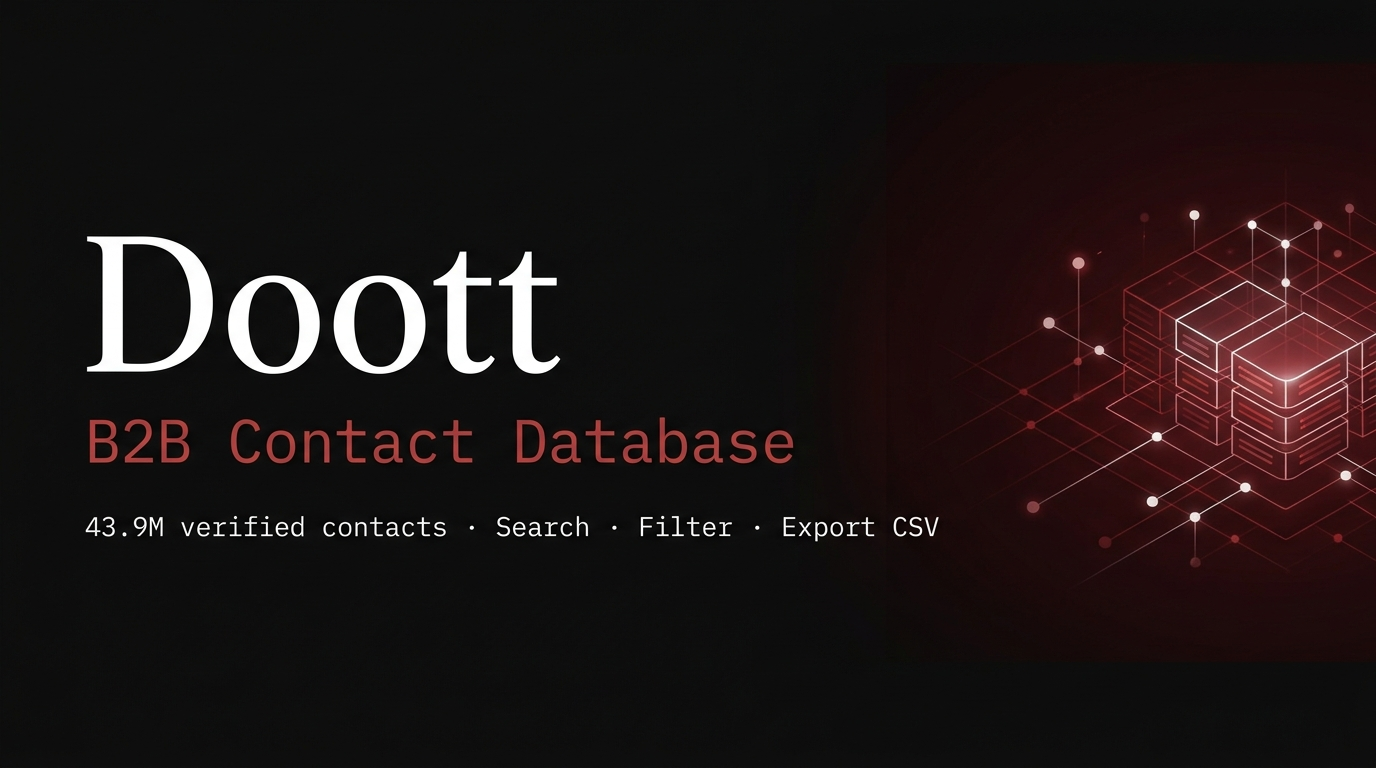
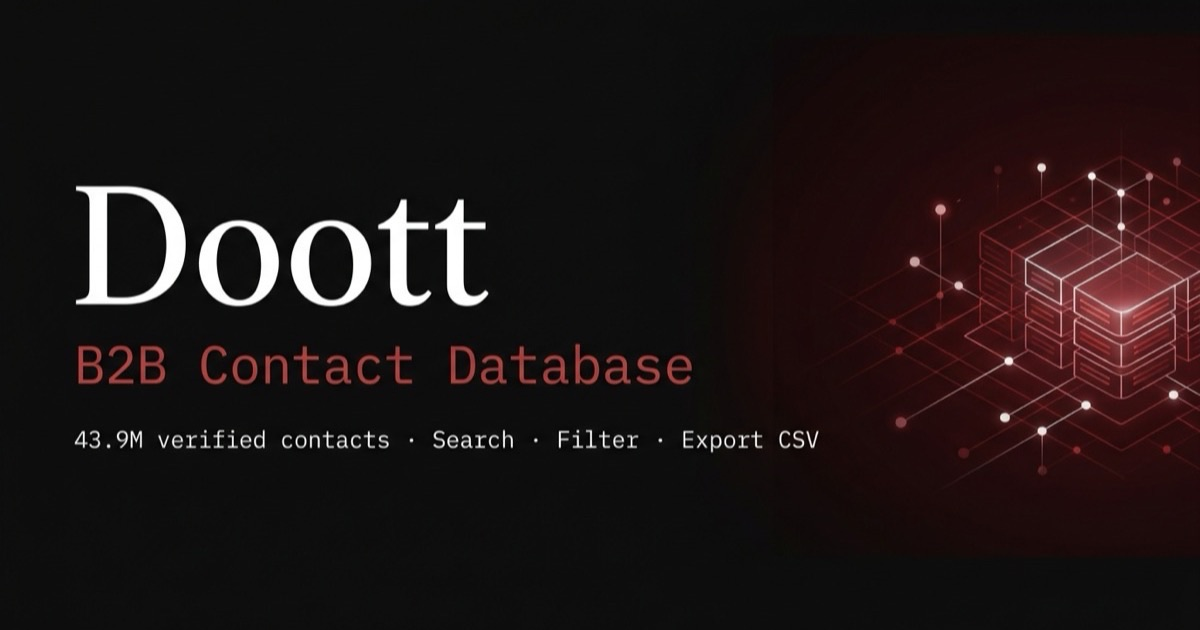
feat(seo): pre-render public pages, per-page meta, lighter landing page
Crawlers used to get an empty <div id="root"> on every URL, with the home page's title
and canonical. Now:

- Pre-rendering: `npm run build` also renders "/" and "/pricing" to static HTML
  (src/entry-server.jsx + scripts/prerender.mjs), so non-JS crawlers (Bing, social
  and AI bots) see the full text. Vercel serves /pricing/index.html for /pricing.
  Every other route gets app-shell.html, which is marked noindex, so login, app and
  unknown URLs stay out of search results.
- Per-page metadata: src/seo.js holds the title, description, canonical and robots
  for each route; RouteMeta keeps them right during client navigation.
- Removed the hreflang tags (every page pointed to "/") and the WebSite SearchAction
  (its target was a login-only, robots-disallowed URL).
- Sitemap and robots.txt (static and server copies): add /pricing, drop /login.
  The API docs page gets a canonical.
- Speed: app pages are lazy-loaded (main bundle 500 KB -> 136 KB), and fonts load via
  <link> instead of a CSS @import.
- Share image is now really 1200x630 (as the og tags claim) and 74 KB instead of 447 KB.

diff --git a/frontend/src/App.jsx b/frontend/src/App.jsx
@@ -1,3 +1,4 @@
+import { lazy, Suspense } from "react";
 import { Routes, Route, Navigate } from "react-router-dom";
 import { AuthProvider } from "./context/AuthContext";
 import { FeatureFlagProvider } from "./context/FeatureFlagContext";
@@ -5,34 +6,33 @@ import ProtectedRoute from "./components/ProtectedRoute";
 import Layout from "./components/Layout";
 import FeatureGate from "./components/FeatureGate";
 
-// Auth pages
-import LoginPage from "./pages/LoginPage";
-import RegisterGate from "./components/RegisterGate"; // password-protected internal signup
-import AuthCallbackPage from "./pages/AuthCallbackPage";
-import VerifyEmailPage from "./pages/VerifyEmailPage";
-import ForgotPasswordPage from "./pages/ForgotPasswordPage";
-import ResetPasswordPage from "./pages/ResetPasswordPage";
-
-// App pages
-import LandingPage from "./pages/LandingPage";
-import PricingPage from "./pages/PricingPage";
-import JoinPage from "./pages/JoinPage";
-import SettingsPage from "./pages/SettingsPage";
-import DocumentationPage from "./pages/DocumentationPage";
-import PeoplePage               from "./pages/PeoplePage";
-import PeopleEmailPage          from "./pages/PeopleEmailPage";
-import PeopleNumberPage         from "./pages/PeopleNumberPage";
-import EmailPage                from "./pages/EmailPage";
-import NumberPage               from "./pages/NumberPage";
-import CompaniesPage            from "./pages/CompaniesPage";
-import CategoryExplorerPage     from "./pages/CategoryExplorerPage";
-import CityExplorerPage         from "./pages/CityExplorerPage";
-import AdminAnalyticsPage from "./pages/AdminAnalyticsPage";
 import PageTracker        from "./components/PageTracker";
-
 import { ThemeProvider } from "./context/ThemeContext";
 
-import ApiDocsPage from "./pages/ApiDocsPage";
+// Public marketing pages — loaded eagerly because they are pre-rendered (scripts/prerender.mjs)
+import LandingPage from "./pages/LandingPage";
+import PricingPage from "./pages/PricingPage";
+
+// Everything except the public marketing pages loads on demand, so the landing page stays light.
+const LoginPage = lazy(() => import("./pages/LoginPage"));
+const RegisterGate = lazy(() => import("./components/RegisterGate")); // password-protected internal signup
+const AuthCallbackPage = lazy(() => import("./pages/AuthCallbackPage"));
+const VerifyEmailPage = lazy(() => import("./pages/VerifyEmailPage"));
+const ForgotPasswordPage = lazy(() => import("./pages/ForgotPasswordPage"));
+const ResetPasswordPage = lazy(() => import("./pages/ResetPasswordPage"));
+const JoinPage = lazy(() => import("./pages/JoinPage"));
+const SettingsPage = lazy(() => import("./pages/SettingsPage"));
+const DocumentationPage = lazy(() => import("./pages/DocumentationPage"));
+const PeoplePage = lazy(() => import("./pages/PeoplePage"));
+const PeopleEmailPage = lazy(() => import("./pages/PeopleEmailPage"));
+const PeopleNumberPage = lazy(() => import("./pages/PeopleNumberPage"));
+const EmailPage = lazy(() => import("./pages/EmailPage"));
+const NumberPage = lazy(() => import("./pages/NumberPage"));
+const CompaniesPage = lazy(() => import("./pages/CompaniesPage"));
+const CategoryExplorerPage = lazy(() => import("./pages/CategoryExplorerPage"));
+const CityExplorerPage = lazy(() => import("./pages/CityExplorerPage"));
+const AdminAnalyticsPage = lazy(() => import("./pages/AdminAnalyticsPage"));
+const ApiDocsPage = lazy(() => import("./pages/ApiDocsPage"));
 
 export default function App() {
   return (
@@ -40,6 +40,7 @@ export default function App() {
       <AuthProvider>
         <FeatureFlagProvider>
           <PageTracker />
+          <Suspense fallback={null}>
           <Routes>
             {/* ── Public routes ─────────────────────────────────── */}
             <Route path="/"                element={<LandingPage />} />
@@ -84,6 +85,7 @@ export default function App() {
             {/* ── 404 catch-all → redirect to login ─────────────── */}
             <Route path="*" element={<Navigate to="/login" replace />} />
           </Routes>
+          </Suspense>
         </FeatureFlagProvider>
       </AuthProvider>
     </ThemeProvider>

diff --git a/frontend/index.html b/frontend/index.html
@@ -19,13 +19,11 @@
     <meta name="robots" content="index, follow, max-snippet:-1, max-image-preview:large, max-video-preview:-1" />
 
     <!-- ═══════════════════════════════════════════════════════
-         CANONICAL, LANGUAGE & HREFLANG
-         Primary market: India (en_IN) + global English fallback
+         CANONICAL
+         Rewritten per page by scripts/prerender.mjs (build) and
+         components/RouteMeta.jsx (client navigation).
     ═══════════════════════════════════════════════════════ -->
     <link rel="canonical" href="https://doott.jaqyi.com/" />
-    <link rel="alternate" hreflang="en-in" href="https://doott.jaqyi.com/" />
-    <link rel="alternate" hreflang="en"    href="https://doott.jaqyi.com/" />
-    <link rel="alternate" hreflang="x-default" href="https://doott.jaqyi.com/" />
 
     <!-- ═══════════════════════════════════════════════════════
          OPEN GRAPH — Social sharing (Facebook, LinkedIn, WhatsApp)
@@ -69,12 +67,14 @@
     ═══════════════════════════════════════════════════════ -->
     <link rel="preconnect" href="https://fonts.googleapis.com" />
     <link rel="preconnect" href="https://fonts.gstatic.com" crossorigin />
+    <link rel="stylesheet" href="https://fonts.googleapis.com/css2?family=Inter:ital,opsz,wght@0,14..32,100..900;1,14..32,100..900&family=JetBrains+Mono:wght@400;500&display=swap" />
 
     <!-- ═══════════════════════════════════════════════════════
          STRUCTURED DATA — JSON-LD
          1. SoftwareApplication  (rich results for the product)
          2. Organization         (brand entity & sitelinks)
-         3. FAQPage              (FAQ rich snippets + AI citations)
+         3. FAQPage              (FAQ answers for search + AI citations)
+         4. WebSite              (site name)
     ═══════════════════════════════════════════════════════ -->
 
     <!-- 1. SoftwareApplication -->
@@ -187,22 +187,14 @@
     }
     </script>
 
-    <!-- 4. WebSite with SearchAction (Sitelinks Search Box signal) -->
+    <!-- 4. WebSite (site name in search results) -->
     <script type="application/ld+json">
     {
       "@context": "https://schema.org",
       "@type": "WebSite",
       "name": "Doott",
       "url": "https://doott.jaqyi.com/",
-      "description": "B2B contact database and lead generation platform with 43.9 million people records.",
-      "potentialAction": {
-        "@type": "SearchAction",
-        "target": {
-          "@type": "EntryPoint",
-          "urlTemplate": "https://doott.jaqyi.com/app/people?q={search_term_string}"
-        },
-        "query-input": "required name=search_term_string"
-      }
+      "description": "B2B contact database and lead generation platform with 43.9 million people records."
     }
     </script>
   </head>

diff --git a/frontend/src/seo.js b/frontend/src/seo.js
@@ -1,0 +1,40 @@
+// Per-route <head> metadata. Used at build time (scripts/prerender.mjs) to write a static
+// HTML file for each indexable page, and at runtime (components/RouteMeta.jsx) so the
+// tags stay correct after client-side navigation.
+
+export const SITE_URL = "https://doott.jaqyi.com";
+
+const DEFAULT = {
+  title: "Doott – B2B Contact Database & Lead Gen Platform",
+  description:
+    "Search 43.9M B2B contacts with verified emails, phones and job titles. Filter and export to CSV in seconds. No per-seat pricing.",
+};
+
+// Public pages that should rank. Each one is pre-rendered to static HTML.
+export const INDEXABLE_ROUTES = {
+  "/": DEFAULT,
+  "/pricing": {
+    title: "Doott Pricing – Lifetime Access to 43.9M B2B Contacts",
+    description:
+      "One price, lifetime access to Doott's B2B database: verified emails, direct phone numbers, company data and unlimited CSV exports. No per-seat fees.",
+  },
+};
+
+// Pages that exist for signed-in users or account flows; keep them out of search results.
+const NOINDEX_TITLES = {
+  "/login": "Log in – Doott",
+  "/register": "Create an account – Doott",
+  "/join": "Join Doott",
+  "/forgot-password": "Reset your password – Doott",
+  "/reset-password": "Reset your password – Doott",
+  "/verify-email": "Verify your email – Doott",
+  "/auth/callback": "Signing in – Doott",
+};
+
+export function metaFor(pathname) {
+  const path = pathname.length > 1 ? pathname.replace(/\/+$/, "") : pathname;
+  const page = INDEXABLE_ROUTES[path];
+  if (page) return { ...page, canonical: SITE_URL + (path === "/" ? "/" : path), index: true };
+  const title = NOINDEX_TITLES[path] || (path.startsWith("/app") ? "Doott" : DEFAULT.title);
+  return { title, description: DEFAULT.description, canonical: SITE_URL + "/", index: false };
+}

diff --git a/frontend/src/components/RouteMeta.jsx b/frontend/src/components/RouteMeta.jsx
@@ -1,0 +1,29 @@
+import { useEffect } from "react";
+import { useLocation } from "react-router-dom";
+import { metaFor } from "../seo";
+
+function setMeta(selector, attr, value) {
+  const el = document.head.querySelector(selector);
+  if (el) el.setAttribute(attr, value);
+}
+
+// Keeps <title>, description, canonical and robots in step with the current route.
+export default function RouteMeta() {
+  const { pathname } = useLocation();
+
+  useEffect(() => {
+    const m = metaFor(pathname);
+    document.title = m.title;
+    setMeta('meta[name="description"]', "content", m.description);
+    setMeta('link[rel="canonical"]', "href", m.canonical);
+    setMeta('meta[property="og:url"]', "content", m.canonical);
+    setMeta('meta[property="og:title"]', "content", m.title);
+    setMeta('meta[property="og:description"]', "content", m.description);
+    setMeta('meta[name="twitter:title"]', "content", m.title);
+    setMeta('meta[name="robots"]', "content", m.index
+      ? "index, follow, max-snippet:-1, max-image-preview:large, max-video-preview:-1"
+      : "noindex, follow");
+  }, [pathname]);
+
+  return null;
+}

diff --git a/frontend/src/entry-server.jsx b/frontend/src/entry-server.jsx
@@ -1,0 +1,24 @@
+// Build-time renderer for the public marketing pages (see scripts/prerender.mjs).
+// Only pages listed in seo.js INDEXABLE_ROUTES are rendered here; the app itself stays client-only.
+import { renderToString } from "react-dom/server";
+import { StaticRouter } from "react-router-dom";
+import { ThemeProvider } from "./context/ThemeContext";
+import LandingPage from "./pages/LandingPage";
+import PricingPage from "./pages/PricingPage";
+
+const PAGES = {
+  "/": LandingPage,
+  "/pricing": PricingPage,
+};
+
+export function render(url) {
+  const Page = PAGES[url];
+  if (!Page) throw new Error(`No pre-render page for ${url}`);
+  return renderToString(
+    <StaticRouter location={url}>
+      <ThemeProvider>
+        <Page />
+      </ThemeProvider>
+    </StaticRouter>
+  );
+}

diff --git a/api-docs.html b/api-docs.html
@@ -5,6 +5,7 @@
   <meta name="viewport" content="width=device-width, initial-scale=1.0" />
   <title>Doott API Docs — Data Fetching Reference</title>
   <meta name="description" content="Official API reference for Doott / LeadGenerator — search, filter, and export millions of verified company and people records." />
+  <link rel="canonical" href="https://doott.jaqyi.com/api-docs" />
   <link rel="preconnect" href="https://fonts.googleapis.com" />
   <link href="https://fonts.googleapis.com/css2?family=Inter:wght@300;400;500;600;700;800&family=JetBrains+Mono:wght@400;500;600&display=swap" rel="stylesheet" />
   <style>

diff --git a/frontend/public/api-docs.html b/frontend/public/api-docs.html
@@ -5,6 +5,7 @@
   <meta name="viewport" content="width=device-width, initial-scale=1.0" />
   <title>Doott API Docs — Data Fetching Reference</title>
   <meta name="description" content="Official API reference for Doott / LeadGenerator — search, filter, and export millions of verified company and people records." />
+  <link rel="canonical" href="https://doott.jaqyi.com/api-docs" />
   <link rel="preconnect" href="https://fonts.googleapis.com" />
   <link href="https://fonts.googleapis.com/css2?family=Inter:wght@300;400;500;600;700;800&family=JetBrains+Mono:wght@400;500;600&display=swap" rel="stylesheet" />
   <style>

diff --git a/src/public/api-docs.html b/src/public/api-docs.html
@@ -5,6 +5,7 @@
   <meta name="viewport" content="width=device-width, initial-scale=1.0" />
   <title>Doott API Docs — Data Fetching Reference</title>
   <meta name="description" content="Official API reference for Doott / LeadGenerator — search, filter, and export millions of verified company and people records." />
+  <link rel="canonical" href="https://doott.jaqyi.com/api-docs" />
   <link rel="preconnect" href="https://fonts.googleapis.com" />
   <link href="https://fonts.googleapis.com/css2?family=Inter:wght@300;400;500;600;700;800&family=JetBrains+Mono:wght@400;500;600&display=swap" rel="stylesheet" />
   <style>

diff --git a/frontend/src/main.jsx b/frontend/src/main.jsx
@@ -6,6 +6,7 @@ import "./index.css";
 import "nprogress/nprogress.css";
 import { Toaster } from "react-hot-toast";
 import PageProgressBar from "./components/PageProgressBar";
+import RouteMeta from "./components/RouteMeta";
 
 // Theme is managed by ThemeContext (respects localStorage + system preference)
 
@@ -14,6 +15,7 @@ ReactDOM.createRoot(document.getElementById("root")).render(
     <BrowserRouter>
       {/* Global progress bar — fires on every route change across the entire app */}
       <PageProgressBar />
+      <RouteMeta />
       <App />
       <Toaster
         position="bottom-right"

diff --git a/src/server.js b/src/server.js
@@ -160,6 +160,7 @@ User-agent: *
 
 # Allow public marketing pages
 Allow: /$
+Allow: /pricing
 Allow: /login
 Allow: /register
 Allow: /api-docs
@@ -195,12 +196,12 @@ app.get("/sitemap.xml", (req, res) => {
     <priority>1.0</priority>
   </url>
 
-  <!-- Auth pages -->
+  <!-- Pricing -->
   <url>
-    <loc>https://doott.jaqyi.com/login</loc>
+    <loc>https://doott.jaqyi.com/pricing</loc>
     <lastmod>${today}</lastmod>
     <changefreq>monthly</changefreq>
-    <priority>0.6</priority>
+    <priority>0.8</priority>
   </url>
 
   <!-- API Docs -->

diff --git a/frontend/src/context/ThemeContext.jsx b/frontend/src/context/ThemeContext.jsx
@@ -4,6 +4,7 @@ const ThemeCtx = createContext({});
 
 export function ThemeProvider({ children }) {
   const [dark, setDark] = useState(() => {
+    if (typeof window === "undefined") return true; // build-time pre-render
     const saved = localStorage.getItem("keli-theme");
     return saved ? saved === "dark" : window.matchMedia("(prefers-color-scheme: dark)").matches;
   });

diff --git a/frontend/src/index.css b/frontend/src/index.css
@@ -1,5 +1,3 @@
-@import url('https://fonts.googleapis.com/css2?family=Inter:ital,opsz,wght@0,14..32,100..900;1,14..32,100..900&family=JetBrains+Mono:wght@400;500&display=swap');
-
 @tailwind base;
 @tailwind components;
 @tailwind utilities;
